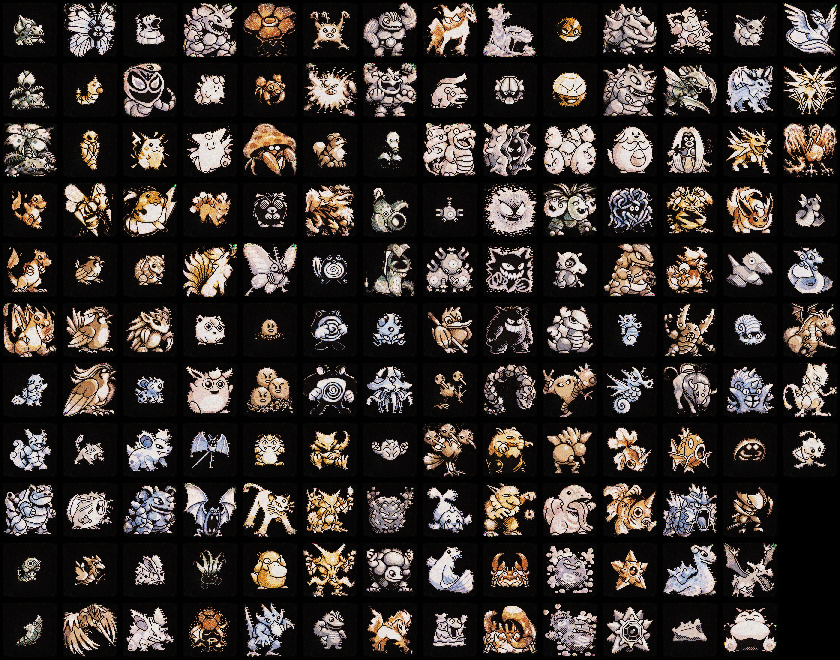
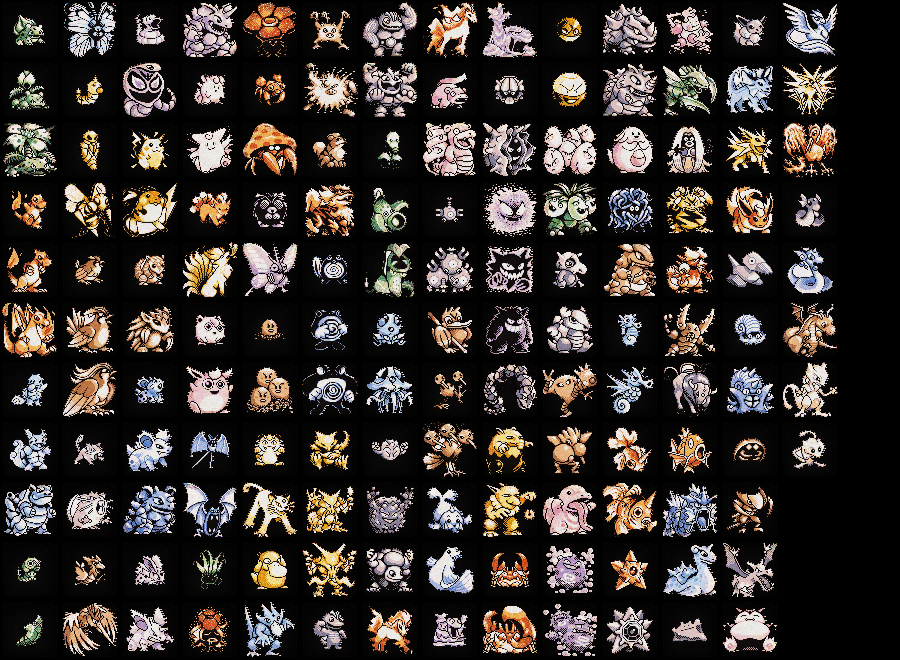
add all 151 pokemon training gif

diff --git a/README.md b/README.md
@@ -107,6 +107,8 @@ Note, I'm using a small network and a low number of training cycles. With more t
 Learning all 151 pokemon images. Note that the color model hasn't been fully learned. Also there are some strange clipping/white spots. These are largely due to editing issues with the training image on my part. :)
 
 <img src="https://raw.githubusercontent.com/kennycason/neural_network_kotlin/master/results/data/deep_convoluted_auto_encoder_pokemon_151.png" />
+<img src="https://raw.githubusercontent.com/kennycason/neural_network_kotlin/master/results/data/deep_convoluted_auto_encoder_pokemon_151.gif" />
+
 
 
 
